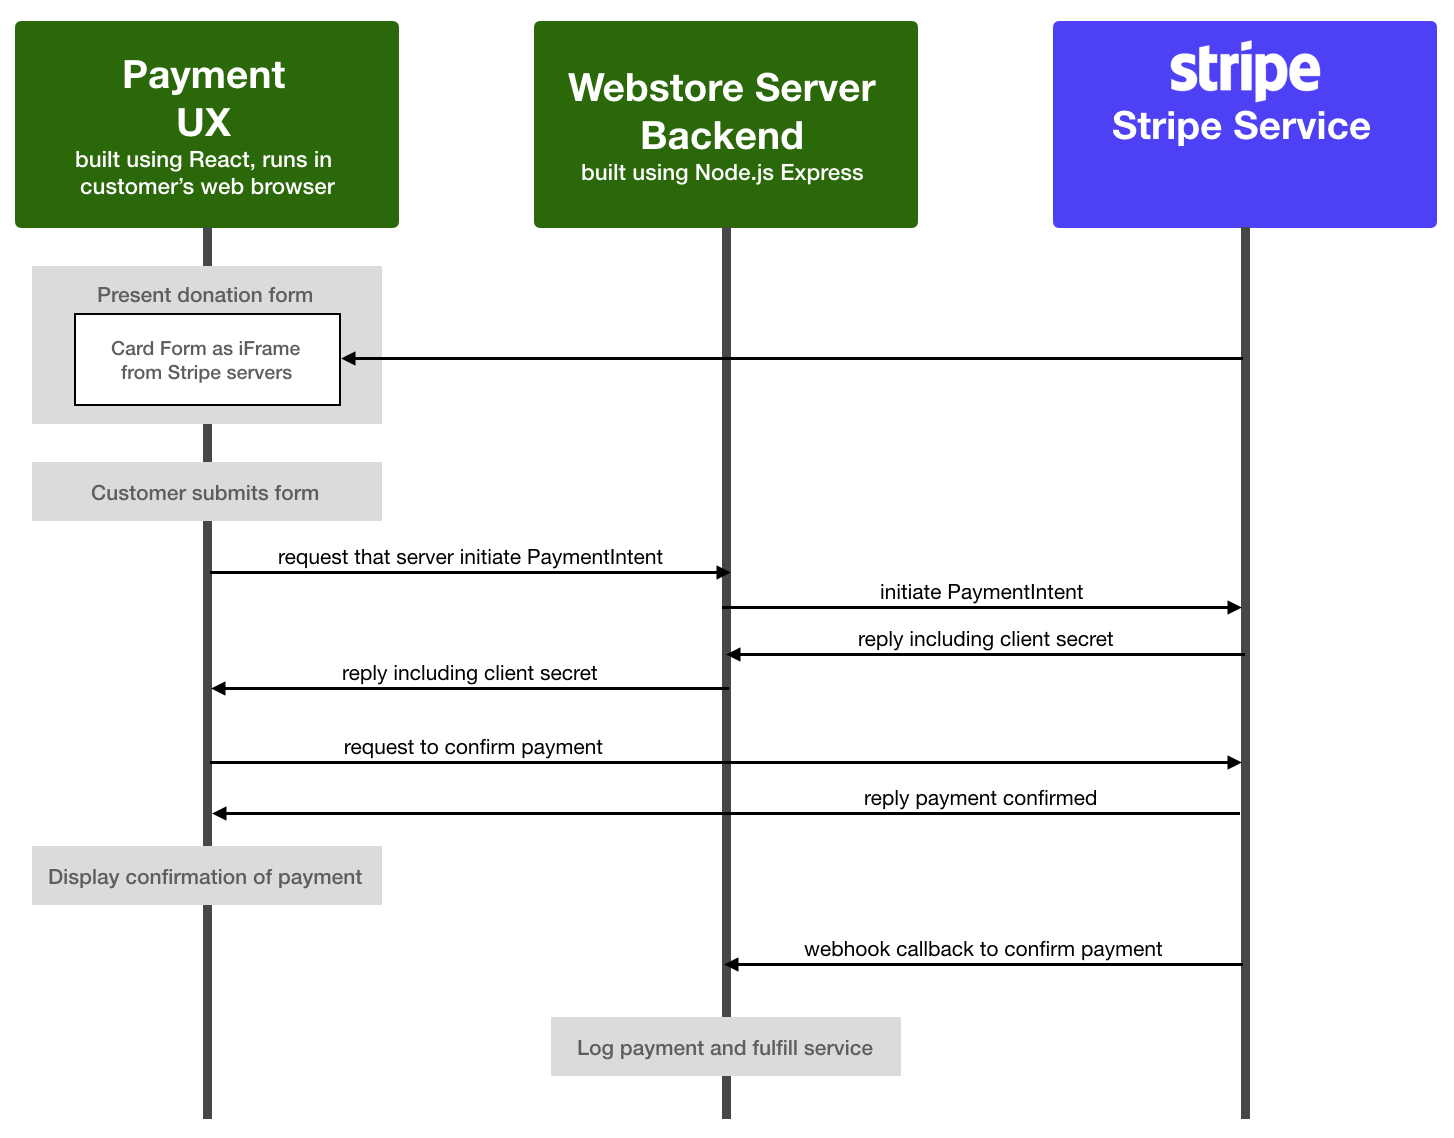
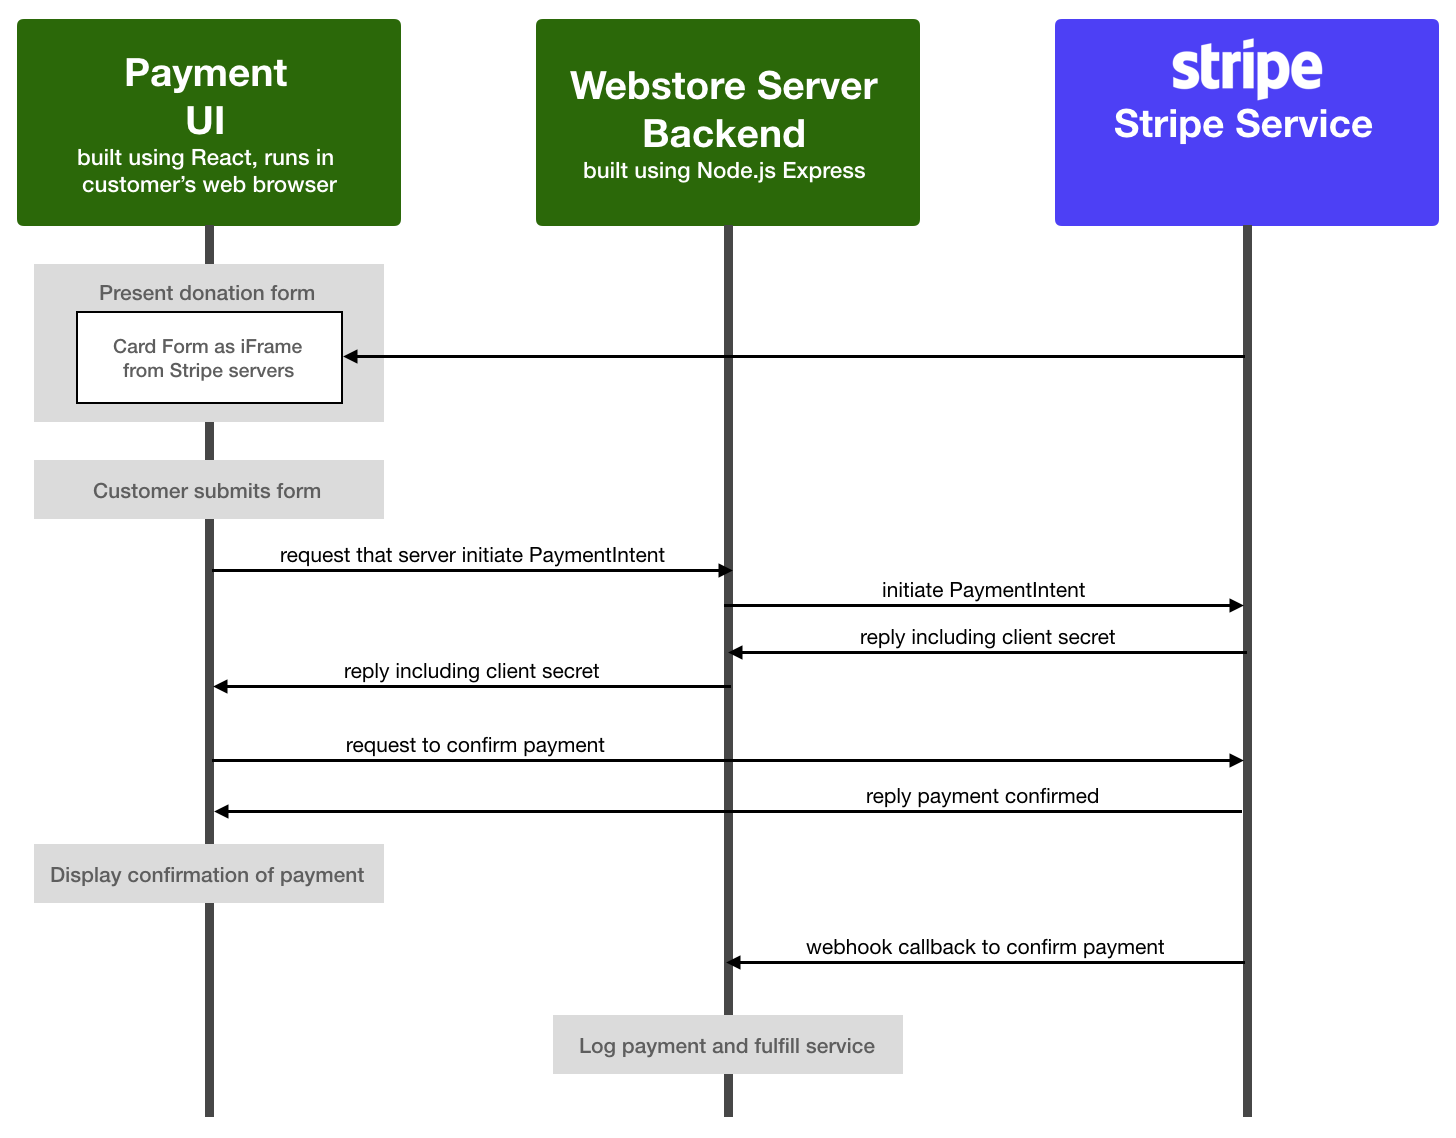
clarified terminology ux/ui

diff --git a/README.md b/README.md
@@ -22,9 +22,9 @@ We will build a simple one-time payment for a donation of a fixed amount to a ch
 This charity will use the funds to donate personal protective equipment to
 care homes for the elderly.
 
-The simple design of the user experience here came initially from the [Stripe React examples](https://github.com/stripe/react-stripe-js).
+The simple design of the user interface here came initially from the [Stripe React examples](https://github.com/stripe/react-stripe-js).
 
-The web customer experience that is built in this example integration looks like this:
+The web customer user interface that is built in this example integration looks like this:
 <p align="center">
 <img src="https://github.com/fergusjames/stripe-pm-exercise/blob/master/docs/app-form-blank.png?raw=true" width=300 alt="UX of the donation form" align="center">
 </p>
@@ -44,7 +44,7 @@ And if any errors occur either when filling out the payment form or after trying
 ## Architecture
 
 The example payment integration is built using [Node.js](https://nodejs.org) and split into two parts:
-1. The customer payment user experience which is built as a single-page web application using [React](https://reactjs.org).
+1. The customer payment user interface which is built as a single-page web application using [React](https://reactjs.org).
 2. A webstore server backend for the charity which is built as a web application using the [Express](https://expressjs.com) framework.
 
 These two elements both communicate with the Stripe service using the [Stripe APIs](https://stripe.com/docs/api).
@@ -56,7 +56,7 @@ Successful donations to the charity are logged to a flat text file in [JSON form
 <img src="https://github.com/fergusjames/stripe-pm-exercise/blob/master/docs/architecture-sequence-diagram.png?raw=true" width=700 alt="High-level sequence diagram showing flow among components" align="center">
 </p>
 
-* The React app loads the user experience for the donation form from the charity's server and the logic runs in the customer's browser.
+* The React app loads the user interface for the donation form from the charity's server and the logic runs in the customer's browser.
 * Note that the part of the form that captures the customer's credit card details
 is served within a iFrame directly from the Stripe service. This protects the customer's
 credit card details. The customer's credit card details never touch the charity's servers.
@@ -99,7 +99,7 @@ Similarly go to the `client-ux` directory and copy the template `.env` file:
 8. Run the Stripe CLI using the command [`stripe listen`](https://stripe.com/docs/stripe-cli#listen-for-events) which will reveal your *webhook signing secret*. Note this token too.
 9. Use a text-editor to edit the `.env` file in the directory `webstore-server-backend`. Replace the entries for both the *Publishable key* and the *Secret key* with the tokens you obtained from your Stripe Dashboard. And replace the entry for the *webhook signing secret* with the one you got from the Stripe CLI tool.
 10. Now move to the `client-ux` directory and use a text-editor to edit the separate `.env` file in there. Replace the entries for the *Publishable key*  with the token you obtained from your Stripe Dashboard.
-11. Now we are going to properly install the full Node.js packages required to run both the React app for the Customer User Experience and the Express app for the Webstore server backend.
+11. Now we are going to properly install the full Node.js packages required to run both the React app for the customer user interface and the Express app for the webstore server backend.
 12. In a terminal window on your local machine, change to the `webstore-server-backend` directory and run the command
 ```
     npm install
@@ -131,7 +131,7 @@ In a second terminal window run the command
 ```
 The Stripe CLI will now communicate with the Stripe service and forward any webhook callbacks to your local webstore server backend.
 
-### Start the Customer Experience application
+### Start the Customer User Interface application
 
 Finally, in a third terminal window change to the `client-ux` directory and run the command
 ```
